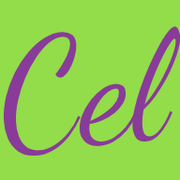
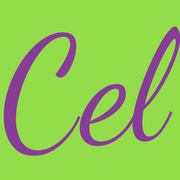
셀·심방 노트 아이콘/파비콘 512 원본으로 교체 — 심방 노트는 manifest 와 아이콘 연결을 새로 만듦 (cell v. 26-1108-5 · care v. 26-1108-6)
Claude-Session: https://claude.ai/code/session_01J2e77ScdjQQ9jmeqrfGSbM

diff --git a/care/index.html b/care/index.html
@@ -1,5 +1,5 @@
 <!DOCTYPE html>
-<!-- 심방 노트 v. 26-1108-5 — BLOCK7·Sweeter 와 별개인 독립 앱 (care/ → sweeter.my/care/) · C1 열람판 -->
+<!-- 심방 노트 v. 26-1108-6 — BLOCK7·Sweeter 와 별개인 독립 앱 (care/ → sweeter.my/care/) · C1 열람판 -->
 <html lang="ko">
 <head>
 <meta charset="utf-8">
@@ -9,6 +9,10 @@
 <meta name="apple-mobile-web-app-capable" content="yes">
 <meta name="apple-mobile-web-app-title" content="심방 노트">
 <meta name="robots" content="noindex">
+<!-- 홈 화면 앱 · 파비콘 — 아이콘은 HB 디자인(11/8, 원본 512px). 바꿀 때는 icon-192/512 · apple-touch-icon · favicon 네 장 -->
+<link rel="icon" type="image/png" href="favicon.png">
+<link rel="manifest" href="manifest.json">
+<link rel="apple-touch-icon" href="apple-touch-icon.png">
 <title>심방 노트</title>
 <script>
 // ⚠ 심방 노트의 집은 sweeter.my/care/ 하나다. 깃헙 페이지가 저장소를 통째로 내보내
@@ -449,7 +453,7 @@ button.tlx{display:grid;grid-template-columns:46px 1fr;gap:10px;width:100%;paddi
      tests/test_care.js 가 이 덩어리만 떼어 시험한다. 시트 · 폼을 읽고 쓰는 판단과 열람 셈은 전부 여기 둔다.
      ⚠ 규칙을 고치면 시험부터 고친다. 계획 · 까닭은 docs/ROADMAP.md '1106-C'. -->
 <script id="care-core">
-const APP_VERSION = 'v. 26-1108-5';
+const APP_VERSION = 'v. 26-1108-6';
 const CARE_KEY = 'b7care_v1';            // 이 기기 저장(고른 파일 id · 시험 상태). 심방 내용은 담지 않는다
 const PICKER_APP_ID = '517626689480';    // 구글 클라우드 프로젝트 번호(block7-8f24e) — 고르기 창이 '이 앱이 고른 파일' 로 묶는 기준
 // 고르기 창 전용 공개 키 (HB 2026-11-06 만듦: 웹사이트 sweeter.my/* · Google Picker API 하나만).

diff --git a/cell/index.html b/cell/index.html
@@ -1,5 +1,5 @@
 <!DOCTYPE html>
-<!-- 셀 inside v. 26-1108-4 — BLOCK7·Sweeter 와 별개인 독립 앱 (cell/ → sweeter.my/cell/) · 셀 케어 보고서를 읽기만 해서 다시 정리해 본다 -->
+<!-- 셀 inside v. 26-1108-5 — BLOCK7·Sweeter 와 별개인 독립 앱 (cell/ → sweeter.my/cell/) · 셀 케어 보고서를 읽기만 해서 다시 정리해 본다 -->
 <html lang="ko">
 <head>
 <meta charset="utf-8">
@@ -8,7 +8,7 @@
 <meta name="theme-color" content="#111312" media="(prefers-color-scheme: dark)">
 <meta name="robots" content="noindex, nofollow">
 <title>셀 inside</title>
-<!-- 홈 화면 앱 · 파비콘 — 아이콘은 HB 디자인(11/6, 원본 192px). 바꿀 때는 icon-192/512 · apple-touch-icon · favicon 네 장 -->
+<!-- 홈 화면 앱 · 파비콘 — 아이콘은 HB 디자인(11/8, 원본 512px). 바꿀 때는 icon-192/512 · apple-touch-icon · favicon 네 장 -->
 <link rel="icon" type="image/png" href="favicon.png">
 <link rel="manifest" href="manifest.json">
 <link rel="apple-touch-icon" href="apple-touch-icon.png">
@@ -379,7 +379,7 @@ input[type=tel]{font-size:16px}
 <script id="cell-core">
 // 셀 한눈에 — 화면 없이 도는 판단만 모은 덩어리. tests/test_cell.js 가 이것만 떼어 시험한다.
 // ⚠ 읽기만 한다. 셀 케어 DB 에 쓰는 함수는 이 앱 어디에서도 부르지 않는다 (test_cell ⑧ 이 지킨다).
-const APP_VERSION = 'v. 26-1108-4';
+const APP_VERSION = 'v. 26-1108-5';
 const SEEN_KEY = 'cell_seen_v1';          // 이미 본 코멘트 id 만 (내용은 두지 않는다)
 const PREF_KEY = 'cell_pref_v1';          // 화면 취향(고른 탭 · 기간 · 범위)
 const WEEKS_LOADED = 12;

diff --git a/docs/ROADMAP.md b/docs/ROADMAP.md
@@ -39,8 +39,8 @@ HB 가 앱별 512×512 원본을 압축 파일로 줬다. 안드로이드 설치
 |---|---|---|
 | BLOCK7 · Sweeter | ✅ `icon-512.png` · `icon-sweeter-512.png` 추가, manifest 512 자리를 거기로 (`icon.png` 는 파비콘 · 알림 · 홈 화면용으로 그대로) | v. 26-1108-1 |
 | 기도노트 3종 | ✅ `icon.png` · `icon-war.png` · `icon-throne.png` 교체, 서비스워커 캐시 `pray-v6` | pray v. 26-1108-1 |
-| 셀 한눈에 | ⏳ **대기** — 다른 창이 수정 중. 끝났다고 HB 가 알리면 `cell/icon-512.png`(보라 Cel) 교체 + 192 · 180 · 48 은 줄여서 | |
-| 심방 노트 | ⏳ **대기** — 같은 이유. 아이콘 파일이 아직 하나도 없다(manifest 만 `icon.png` 를 가리킴). 512 원본(갈색 S) 받으면 192 · 180 · 48 · manifest 선언 · `sw.js` 목록까지 한꺼번에 | |
+| 셀 한눈에 | ✅ 512 · 192 · 180 · 48 네 장 교체 (보라 Cel) | cell v. 26-1108-5 |
+| 심방 노트 | ✅ 아이콘 네 장 + `manifest.json` 새로 만들고 `<link>` 셋 연결 (갈색 S · 이전엔 manifest 자체가 없었다). 서비스워커는 안 만듦 — 오프라인 요구가 없어서 | care v. 26-1108-6 |
 | 용돈 · 공부 · 타이머 · 사역 한눈에 | ❓ 압축 파일에 **없었다** — HB 에게 원본을 다시 받아야 한다 (지금 있는 512 가 진짜 512 인지는 모름) | |
 
 까닭: BLOCK7 `icon.png` 를 512 로 바꿔치지 않은 것은 그 파일이 파비콘 · 알림 아이콘 · 홈 화면 아이콘으로 두루 불려 크기를 바꾸면 영향이 넓기 때문이다.
